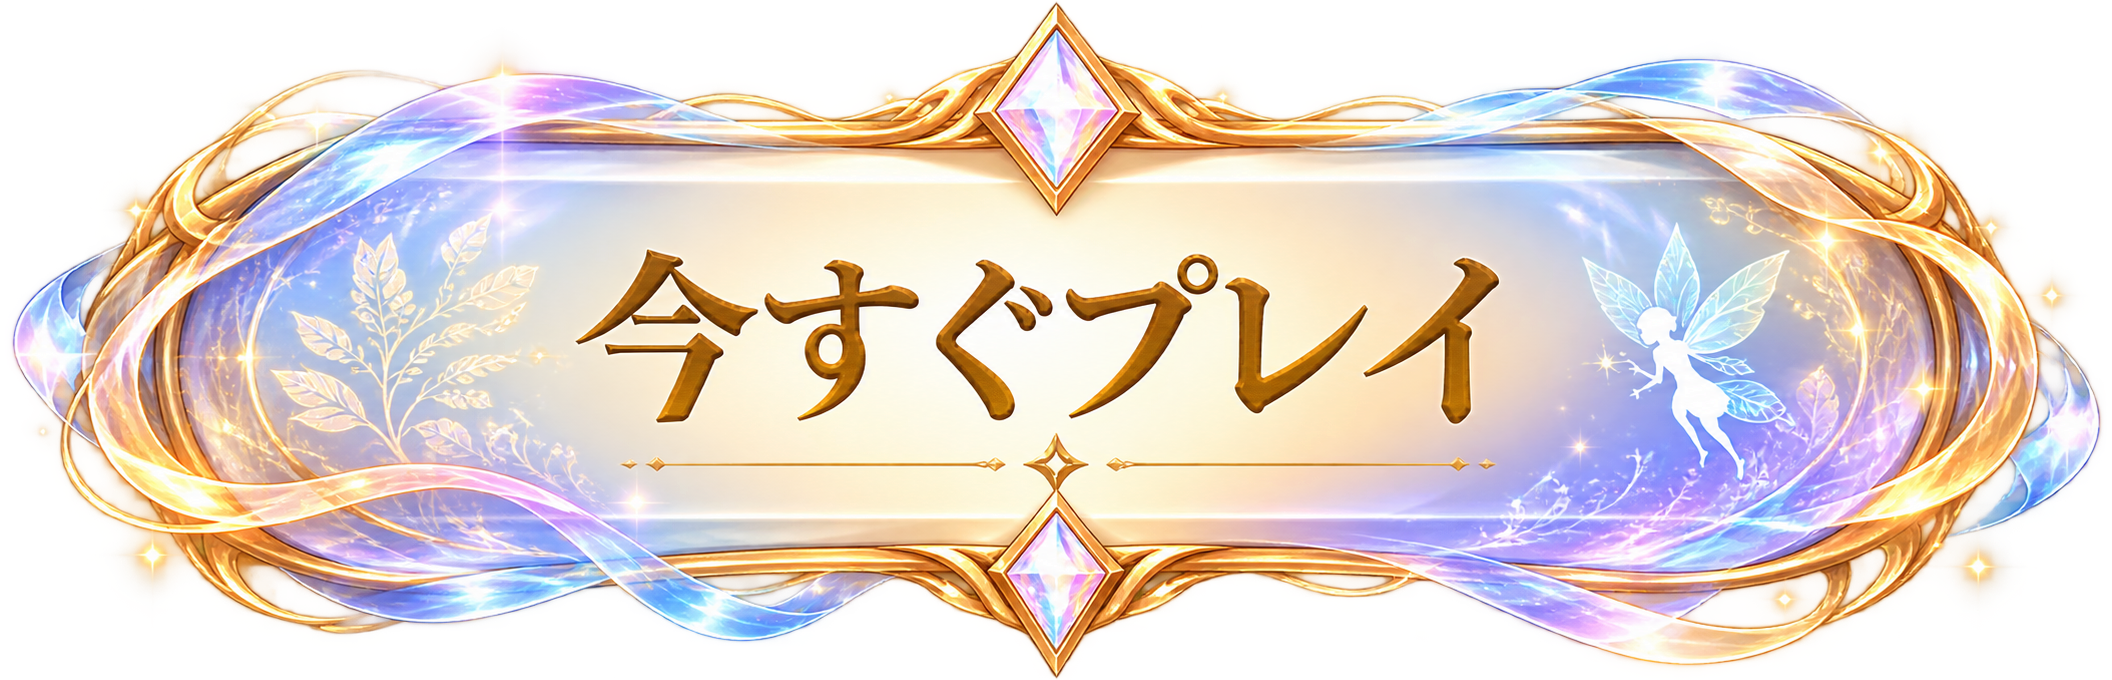
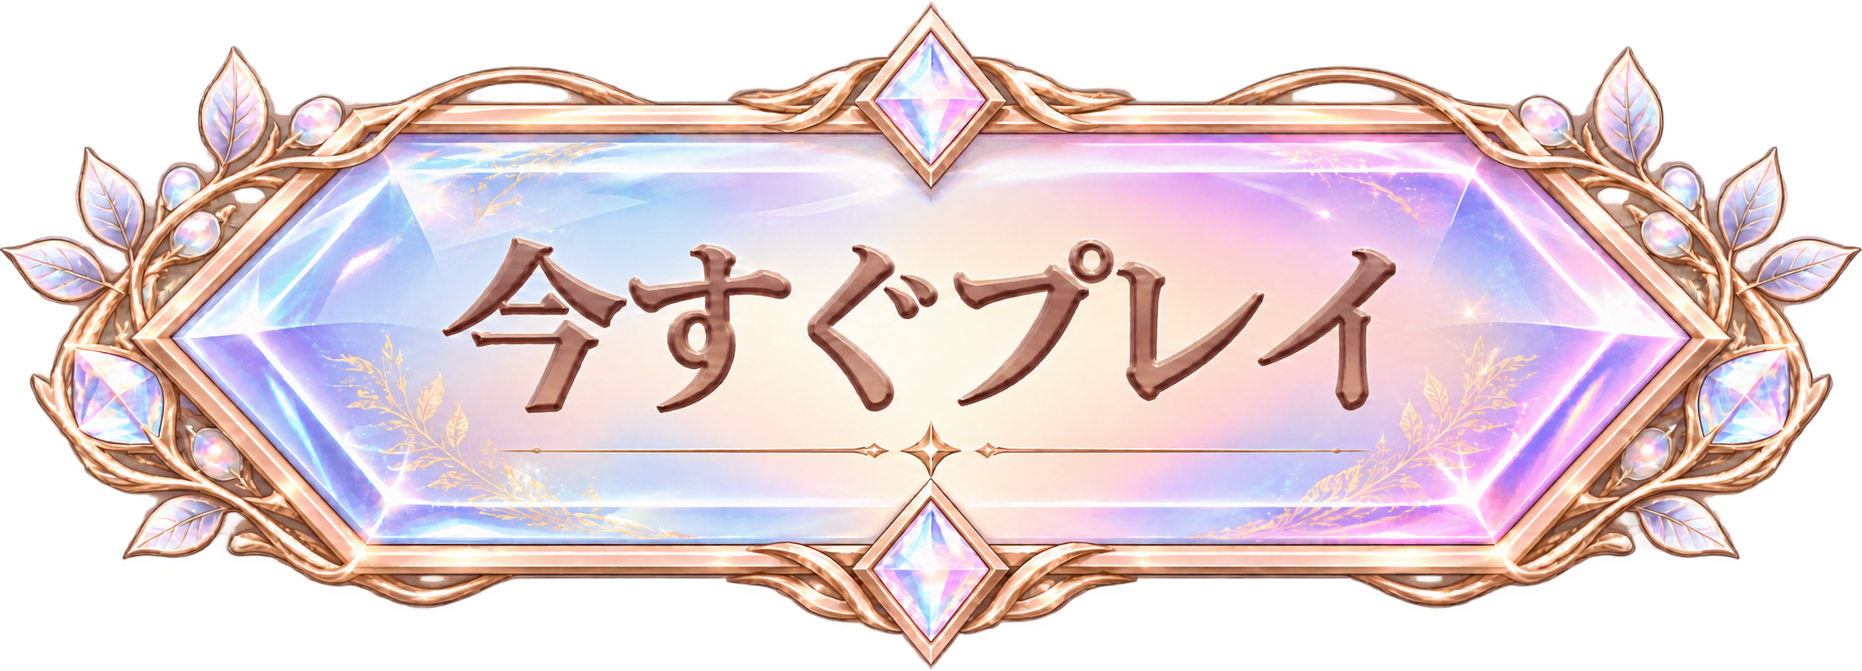
commit

diff --git a/resources/js/Index.tsx b/resources/js/Index.tsx
@@ -68,7 +68,7 @@ export default function Index() {
                     <div className="relative z-[6] flex h-[70px] items-center justify-center">
                         <div className="pointer-events-none absolute top-[26px] -inset-x-[14px] bottom-[10px] -z-10 blur-[6px] bg-[radial-gradient(ellipse,rgba(255,250,221,0.75),transparent_67%)]"
                             aria-hidden="true" />
-                        <img className="h-auto w-[300px] max-w-full drop-shadow-[0_6px_8px_rgba(74,57,33,0.18)]" src="/assets/index/logo.png" alt="HIVEX" />
+                        <img className="h-auto w-[240px] max-w-full" src="/assets/index/logo.png?1" alt="HIVEX" />
                     </div>
 
                     <div className="nav flex items-center justify-end gap-[28px]
@@ -95,7 +95,7 @@ export default function Index() {
                             {/* ヘッダーのログインボタンからも開けるように変更 */}
                             <button
                                 onClick={() => setIsOpen(true)}
-                                className="flex h-[34px] items-center gap-2 rounded-full border border-[rgba(173,139,79,0.48)] bg-white/43 px-[14px] text-xs tracking-[0.07em] text-[#665341] transition-transform hover:scale-105 active:scale-95"
+                                className="flex h-[34px] items-center gap-2 rounded-full border border-[rgba(173,139,79,0.48)] bg-white/43 px-[14px] text-xs tracking-[0.07em] text-[#665341] transition-transform hover:scale-103 active:scale-97"
                             >
                                 ◉ ログイン
                             </button>
@@ -110,10 +110,10 @@ export default function Index() {
                         aria-label="今すぐプレイ"
                         className="cursor-pointer border-none bg-transparent outline-none"
                     >
-                        <img className="w-[min(380px,31vw)] drop-shadow-[0_12px_20px_rgba(34,32,23,0.3)] transition-all duration-[250ms] ease
-                            hover:-translate-y-1 hover:scale-[1.025]
-                            hover:drop-shadow-[0_16px_26px_rgba(33,28,20,0.36)] active:scale-95"
-                             src="/assets/index/play.png"
+                        <img className="animate-glow w-[min(380px,31vw)] transition-all duration-[250ms] ease
+                            hover:-translate-y-1 hover:scale-[1.02]
+                            active:scale-97"
+                             src="/assets/index/play.png?"
                              alt="今すぐプレイ"
                         />
                     </button>
@@ -184,79 +184,56 @@ export default function Index() {
                 {/* ===== ログインモーダル ===== */}
                 {isOpen && (
                     <div
-                        className="fixed inset-0 z-50 flex items-center justify-center bg-black/45 p-4 backdrop-blur-[4px] animate-in fade-in duration-200"
+                        className="fixed inset-0 z-50 flex items-center justify-center bg-white/25 backdrop-blur-[4px] animate-in fade-in duration-400"
                         onClick={() => setIsOpen(false)}
                     >
                         <div
-                            className="relative w-full max-w-[440px] rounded-[28px] border-2 border-[#e3d1ac] bg-gradient-to-b from-[rgba(253,251,245,0.92)] to-[rgba(243,238,220,0.88)] p-7 pb-8 shadow-[0_20px_50px_rgba(15,23,20,0.35),inset_0_0_0_1px_rgba(255,255,255,0.7)] backdrop-blur-[12px]"
+                            className="relative w-full max-w-[540px] rounded-[28px] border-2 border-[#e3d1ac] bg-gradient-to-b from-[rgba(253,247,245,0.85)] to-[rgba(244,236,208,0.75)] p-[25px] pt-[40px] pb-[20px] shadow-[0_20px_50px_rgba(15,23,20,0.35),inset_0_0_0_1px_rgba(255,255,255,0.7)] backdrop-blur-[12px]"
                             onClick={(e) => e.stopPropagation()}
                         >
                             {/* 閉じるボタン */}
                             <button
                                 type="button"
                                 onClick={() => setIsOpen(false)}
-                                className="absolute right-5 top-5 flex size-8 items-center justify-center text-xl text-[#8e7a63] transition hover:scale-110 hover:text-[#524434]"
+                                className="absolute right-[20px] top-[20px] flex size-6 items-center justify-center text-xl text-[#8e7a63] transition hover:scale-110 hover:text-[#524434]"
                                 aria-label="閉じる"
                             >
                                 ✕
                             </button>
 
                             {/* モーダルヘッダー */}
-                            <div className="mb-6 mt-1 text-center">
-                                <h2 className="text-[26px] tracking-[0.06em] text-[#6d563d] font-bold">
-                                    hivee<span className="font-normal text-[22px] ml-1">へようこそ</span>
+                            <div className="mb-[24px]">
+                                <h2 className="flex justify-center">
+                                    <img className="h-auto w-[380px] max-w-full"
+                                         src="/assets/login-title.png"
+                                         alt=""
+                                    />
                                 </h2>
-                                <div className="mt-1 flex items-center justify-center gap-2 text-[12px] tracking-[0.08em] text-[#8e7960]">
-                                    <span>◇</span>
+                                <div
+                                    className="mt-[8px] flex items-center justify-center gap-[6px] text-[12px] tracking-[0.08em] text-[#8e7960]">
+                                    <span><img className="w-[60px] -scale-x-100" src="/assets/needle-1.png" alt=""/></span>
                                     <span>ログインして、精霊樹の成長をはじめよう</span>
-                                    <span>◇</span>
+                                    <span><img className="w-[60px]" src="/assets/needle-1.png" alt=""/></span>
                                 </div>
                             </div>
 
-                            {/* ログインボタン一覧 */}
-                            <div className="flex flex-col gap-3">
-                                {/* Google */}
-                                <button
-                                    type="button"
-                                    onClick={() => console.log("Google Login")}
-                                    className="group flex h-[52px] w-full items-center justify-between rounded-full border border-[rgba(214,188,142,0.75)] bg-gradient-to-r from-white/90 to-[#fdfaf2]/90 px-5 text-[14px] text-[#5c4936] shadow-sm transition hover:scale-[1.01] hover:border-[#bfa268] active:scale-[0.99]"
-                                >
-                                    <div className="flex items-center gap-3">
-                                        <svg className="size-5 shrink-0" viewBox="0 0 24 24">
-                                            <path fill="#4285F4" d="M23.745 12.27c0-.7-.06-1.4-.19-2.07H12v4.51h6.6c-.29 1.52-1.14 2.8-2.4 3.68v3.05h3.88c2.27-2.09 3.665-5.17 3.665-9.17Z" />
-                                            <path fill="#34A853" d="M12 24c3.24 0 5.95-1.08 7.93-2.91l-3.88-3.05c-1.08.72-2.45 1.16-4.05 1.16-3.12 0-5.77-2.1-6.72-4.93H1.26v3.15C3.25 21.37 7.34 24 12 24Z" />
-                                            <path fill="#FBBC05" d="M5.28 14.27c-.25-.72-.38-1.49-.38-2.27s.13-1.55.38-2.27V6.58H1.26C.46 8.16 0 9.98 0 12s.46 3.84 1.26 5.42l4.02-3.15Z" />
-                                            <path fill="#EA4335" d="M12 4.75c1.77 0 3.35.61 4.6 1.8l3.42-3.42C17.95 1.19 15.24 0 12 0 7.34 0 3.25 2.63 1.26 6.58l4.02 3.15c.95-2.83 3.6-4.98 6.72-4.98Z" />
-                                        </svg>
-                                        <span className="font-medium tracking-[0.04em]">Googleでログイン</span>
-                                    </div>
-                                    <span className="text-[#a4917a] transition-transform group-hover:translate-x-0.5">›</span>
-                                </button>
 
-                                {/* X */}
-                                <button
-                                    type="button"
-                                    onClick={() => console.log("X Login")}
-                                    className="group flex h-[52px] w-full items-center justify-between rounded-full border border-[rgba(214,188,142,0.75)] bg-gradient-to-r from-white/90 to-[#fdfaf2]/90 px-5 text-[14px] text-[#5c4936] shadow-sm transition hover:scale-[1.01] hover:border-[#bfa268] active:scale-[0.99]"
-                                >
-                                    <div className="flex items-center gap-3">
-                                        <span className="flex size-5 shrink-0 items-center justify-center font-bold text-black">𝕏</span>
-                                        <span className="font-medium tracking-[0.04em]">Xでログイン</span>
-                                    </div>
-                                    <span className="text-[#a4917a] transition-transform group-hover:translate-x-0.5">›</span>
-                                </button>
+                            <div className="buttons flex flex-col items-center gap-[12px]">
 
-                                {/* LINE */}
-                                <button
-                                    type="button"
-                                    onClick={() => console.log("LINE Login")}
-                                    className="group flex h-[52px] w-full items-center justify-between rounded-full border border-[rgba(163,205,152,0.85)] bg-gradient-to-r from-[#eff8ee]/95 to-[#e4f3e2]/95 px-5 text-[14px] text-[#3e5f39] shadow-sm transition hover:scale-[1.01] hover:border-[#7cb773] active:scale-[0.99]"
-                                >
-                                    <div className="flex items-center gap-3">
-                                        <span className="flex size-5 shrink-0 items-center justify-center rounded-full bg-[#06c755] text-[10px] font-bold text-white">LINE</span>
-                                        <span className="font-medium tracking-[0.04em]">LINEでログイン</span>
-                                    </div>
-                                    <span className="text-[#7da779] transition-transform group-hover:translate-x-0.5">›</span>
+                                <button type="button" className="buttonFrame color-google ">
+                                    <img className="decoration left" src="/assets/decoration-middle-2.png" alt=""/>
+                                    Googleでログイン
+                                    <img className="decoration right" src="/assets/decoration-middle-2.png" alt=""/>
+                                </button>
+                                <button type="button" className="buttonFrame color-x">
+                                    <img className="decoration left" src="/assets/decoration-middle-2.png" alt=""/>
+                                    Xでログイン
+                                    <img className="decoration right" src="/assets/decoration-middle-2.png" alt=""/>
+                                </button>
+                                <button type="button" className="buttonFrame color-line">
+                                    <img className="decoration left" src="/assets/decoration-middle-2.png" alt=""/>
+                                    LINEでログイン
+                                    <img className="decoration right" src="/assets/decoration-middle-2.png" alt=""/>
                                 </button>
                             </div>
 
@@ -265,7 +242,8 @@ export default function Index() {
                                 <p className="text-[11px] leading-[1.6] text-[#867563]">
                                     ログインすることで
                                     <a href="#" className="underline hover:text-[#4d3d2e] mx-0.5">利用規約</a>・
-                                    <a href="#" className="underline hover:text-[#4d3d2e] mx-0.5">プライバシーポリシー</a>
+                                    <a href="#"
+                                       className="underline hover:text-[#4d3d2e] mx-0.5">プライバシーポリシー</a>
                                     に同意したものとみなされます。
                                 </p>
                             </div>

diff --git a/resources/css/app.css b/resources/css/app.css
@@ -1,9 +1,61 @@
 @import 'tailwindcss';
+@plugin "tailwindcss-animate";
 @import 'maplibre-gl/dist/maplibre-gl.css';
 
 @source '../../vendor/laravel/framework/src/Illuminate/Pagination/resources/views/*.blade.php';
 @source '../../storage/framework/views/*.php';
 
 @theme {
-    --font-sans: 'Instrument Sans', 'Yu Gothic', YuGothic, 'Hiragino Sans', sans-serif;
+    /*--font-sans: 'Instrument Sans', 'Yu Gothic', YuGothic, 'Hiragino Sans', sans-serif;*/
+    --font-sans: "Yu Mincho", "Hiragino Mincho ProN", serif;
+}
+
+@layer base {
+    button {
+        cursor: pointer;
+    }
+    .buttonFrame {
+        @apply transition relative w-[320px] p-[10px_0] grid place-items-center box-border rounded-[100px];
+        border: 1px solid #ccb8ae;
+        background:
+            radial-gradient(ellipse at 68% 0%, #ffffffeb, #ffffff00 72%),
+            linear-gradient(115deg, #ffffff65, #ffffff00 42%, #ffffff55),
+            linear-gradient(to bottom, var(--top), var(--bottom));
+        box-shadow:
+            inset 0 0 0 1px #fff,
+            inset 0 0 0 2px #efd7c8,
+            0 2px 3px #79616a14;
+        color: var(--label);
+        .decoration{
+            @apply h-auto w-[12px] max-w-full absolute;
+            &.left{
+                @apply left-[-5px]
+            }
+            &.right{
+                @apply right-[-5px]
+            }
+        }
+    }
+    .buttonFrame:hover{
+        @apply scale-[1.01];
+    }
+    .buttonFrame:active {
+        @apply active:scale-[1];
+        /*transform: translateY(1px); */
+    }
+    .color-google { --top: #fffefa; --bottom: #eee5cf; --label: #78451c; }
+    .color-x { --top: #fafafa; --bottom: #d2d5d2; --label: #434745; }
+    .color-line { --top: #f8ffe9; --bottom: #d7eeb9; --label: #3b6127; }
+}
+
+@keyframes glow-pulse {
+    0%, 100% {
+        filter: drop-shadow(0 3px 5px rgba(255, 255, 255, 0.4));
+    }
+    50% {
+        filter: drop-shadow(0 10px 20px rgba(255, 255, 255, 1));
+    }
+}
+.animate-glow {
+    animation: glow-pulse 3s ease-in-out infinite;
 }

diff --git a/app/Console/Commands/ProjectDump.php b/app/Console/Commands/ProjectDump.php
@@ -1,0 +1,43 @@
+<?php
+
+namespace App\Console\Commands;
+
+use Illuminate\Console\Attributes\Description;
+use Illuminate\Console\Attributes\Signature;
+use Illuminate\Console\Command;
+use Illuminate\Support\Facades\Process;
+
+#[Signature('project:dump')]
+#[Description('指定フォルダをZIP化して保存する')]
+class ProjectDump extends Command
+{
+    /**
+     * Execute the console command.
+     */
+    public function handle(): int
+    {
+        $timestamp = now()->format('Ymd_His');
+        $zip_path = storage_path("project-dump_{$timestamp}.zip");
+
+        $cmd = [
+            'zip', '-r', $zip_path,
+            'app/', 'bootstrap/', 'config/', 'database/', 'public/', 'resources/', 'routes/',
+            '.env', 'composer.json', 'package.json', 'vite.config.js',
+        ];
+
+        // LaravelのProcessファサードでスッキリ実行
+        $result = Process::run($cmd);
+
+        if ($result->failed()) {
+            $this->error('ZIP作成失敗: '.$result->errorOutput());
+
+            return self::FAILURE;
+        }
+
+        chmod($zip_path, 0777);
+        $this->info("✅ 作成成功: $zip_path");
+        $this->info(now()->format('Ymd_His'));
+
+        return self::SUCCESS;
+    }
+}
